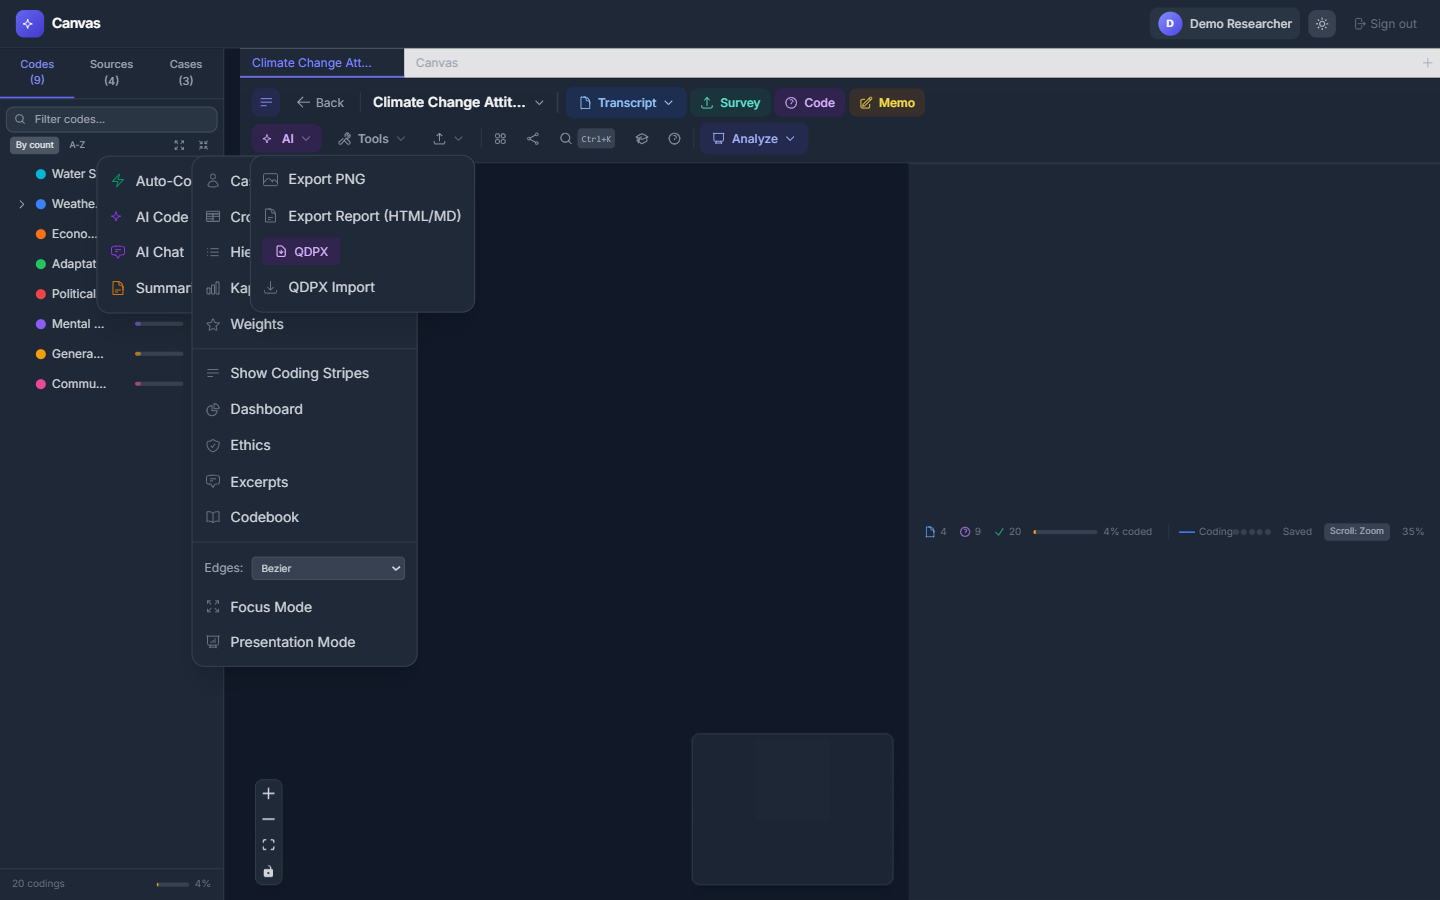
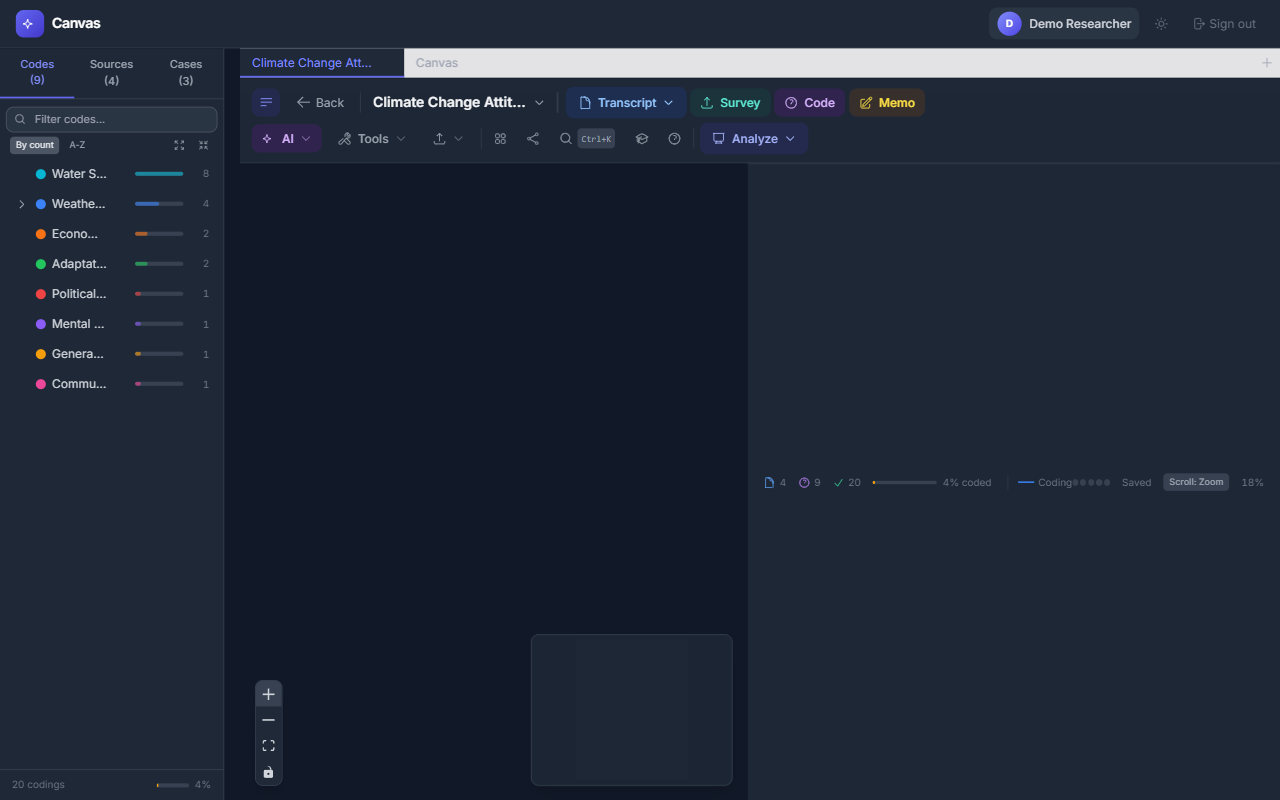
Fix guide accuracy: correct analysis tool count and captions
- Navigator caption now accurately describes Codes tab (was claiming
  to show transcripts)
- Analysis section updated from 12 fake tools to actual 10 tools
  matching the Analyze menu (removed Treemap, Timeline, Document
  Portrait, Geo Map that don't exist)
- Organized analysis list by category matching menu structure
- Recaptured dark mode screenshot without menu overlays

diff --git a/apps/frontend/src/pages/GuidePage.tsx b/apps/frontend/src/pages/GuidePage.tsx
@@ -172,7 +172,7 @@ const SECTIONS: GuideSection[] = [
         <p className="text-gray-600 dark:text-gray-300 leading-relaxed">
           The Code Navigator in the left sidebar gives you a real-time overview of your codebook. It shows every code with a frequency bar indicating how often each code was used.
         </p>
-        <Screenshot src="/guide/12-navigator.png" alt="Code navigator sidebar" caption="The navigator shows transcripts with word counts, code counts, and coding coverage" />
+        <Screenshot src="/guide/12-navigator.png" alt="Code navigator sidebar" caption="The Codes tab shows all codes sorted by frequency with color-coded bars" />
         <Steps steps={[
           'Click "Codes" tab to see all codes sorted by frequency or alphabetically.',
           'Click any code to highlight its connections on the canvas and see all coded passages.',
@@ -190,23 +190,28 @@ const SECTIONS: GuideSection[] = [
     content: (
       <>
         <p className="text-gray-600 dark:text-gray-300 leading-relaxed">
-          QualCanvas includes 12 analysis tools that run live on your coded data. Click the "Analyze" button in the toolbar to add analysis nodes to your canvas.
+          QualCanvas includes 10 analysis tools organized into three categories. Click the "Analyze" button in the toolbar to add analysis nodes to your canvas.
         </p>
-        <Screenshot src="/guide/15-analyze-menu.png" alt="Analysis tools menu" caption="11 analysis types organized by category: Text, Coding, and Frameworks" />
+        <Screenshot src="/guide/15-analyze-menu.png" alt="Analysis tools menu" caption="10 analysis types organized by category: Text, Coding, and Frameworks" />
         <h3 className="text-lg font-semibold text-gray-900 dark:text-gray-100 mt-6 mb-2">Available Analysis Types</h3>
+        <p className="text-xs font-semibold uppercase tracking-wider text-gray-400 dark:text-gray-500 mt-4 mb-1">Text Analysis</p>
         <ul className="space-y-1 text-sm text-gray-600 dark:text-gray-300">
+          <li><strong>Text Search:</strong> Find patterns across transcripts with regex support.</li>
           <li><strong>Word Cloud:</strong> Visualize word frequency across coded passages.</li>
+          <li><strong>Sentiment:</strong> Positive/negative/neutral analysis of coded text.</li>
+        </ul>
+        <p className="text-xs font-semibold uppercase tracking-wider text-gray-400 dark:text-gray-500 mt-4 mb-1">Coding Analysis</p>
+        <ul className="space-y-1 text-sm text-gray-600 dark:text-gray-300">
           <li><strong>Statistics:</strong> Code frequency, distribution, and coverage metrics.</li>
           <li><strong>Co-occurrence:</strong> Matrix showing which codes appear together.</li>
-          <li><strong>Sentiment:</strong> Positive/negative/neutral analysis of coded text.</li>
+          <li><strong>Coding Query:</strong> Boolean AND/OR/NOT queries on your codings.</li>
+          <li><strong>Clustering:</strong> Group similar coded segments together.</li>
+        </ul>
+        <p className="text-xs font-semibold uppercase tracking-wider text-gray-400 dark:text-gray-500 mt-4 mb-1">Frameworks & Comparison</p>
+        <ul className="space-y-1 text-sm text-gray-600 dark:text-gray-300">
+          <li><strong>Framework Matrix:</strong> Case x Question grid for structured analysis.</li>
           <li><strong>Comparison:</strong> Compare coding patterns across transcripts.</li>
-          <li><strong>Treemap:</strong> Hierarchical visualization of code frequencies.</li>
-          <li><strong>Cluster:</strong> Group codes by similarity.</li>
-          <li><strong>Coding Query:</strong> Search for specific patterns in your codings.</li>
-          <li><strong>Timeline:</strong> Temporal distribution of codes.</li>
-          <li><strong>Document Portrait:</strong> Visual summary of each transcript's coding.</li>
-          <li><strong>Search:</strong> Full-text search across all transcripts.</li>
-          <li><strong>Geo Map:</strong> Geographic distribution (if location data present).</li>
+          <li><strong>Theme Map:</strong> Visual theme proportions across your data.</li>
         </ul>
         <ProTip>Analysis nodes update live as you add more codings. Keep a word cloud on your canvas to see patterns emerge in real time.</ProTip>
       </>
